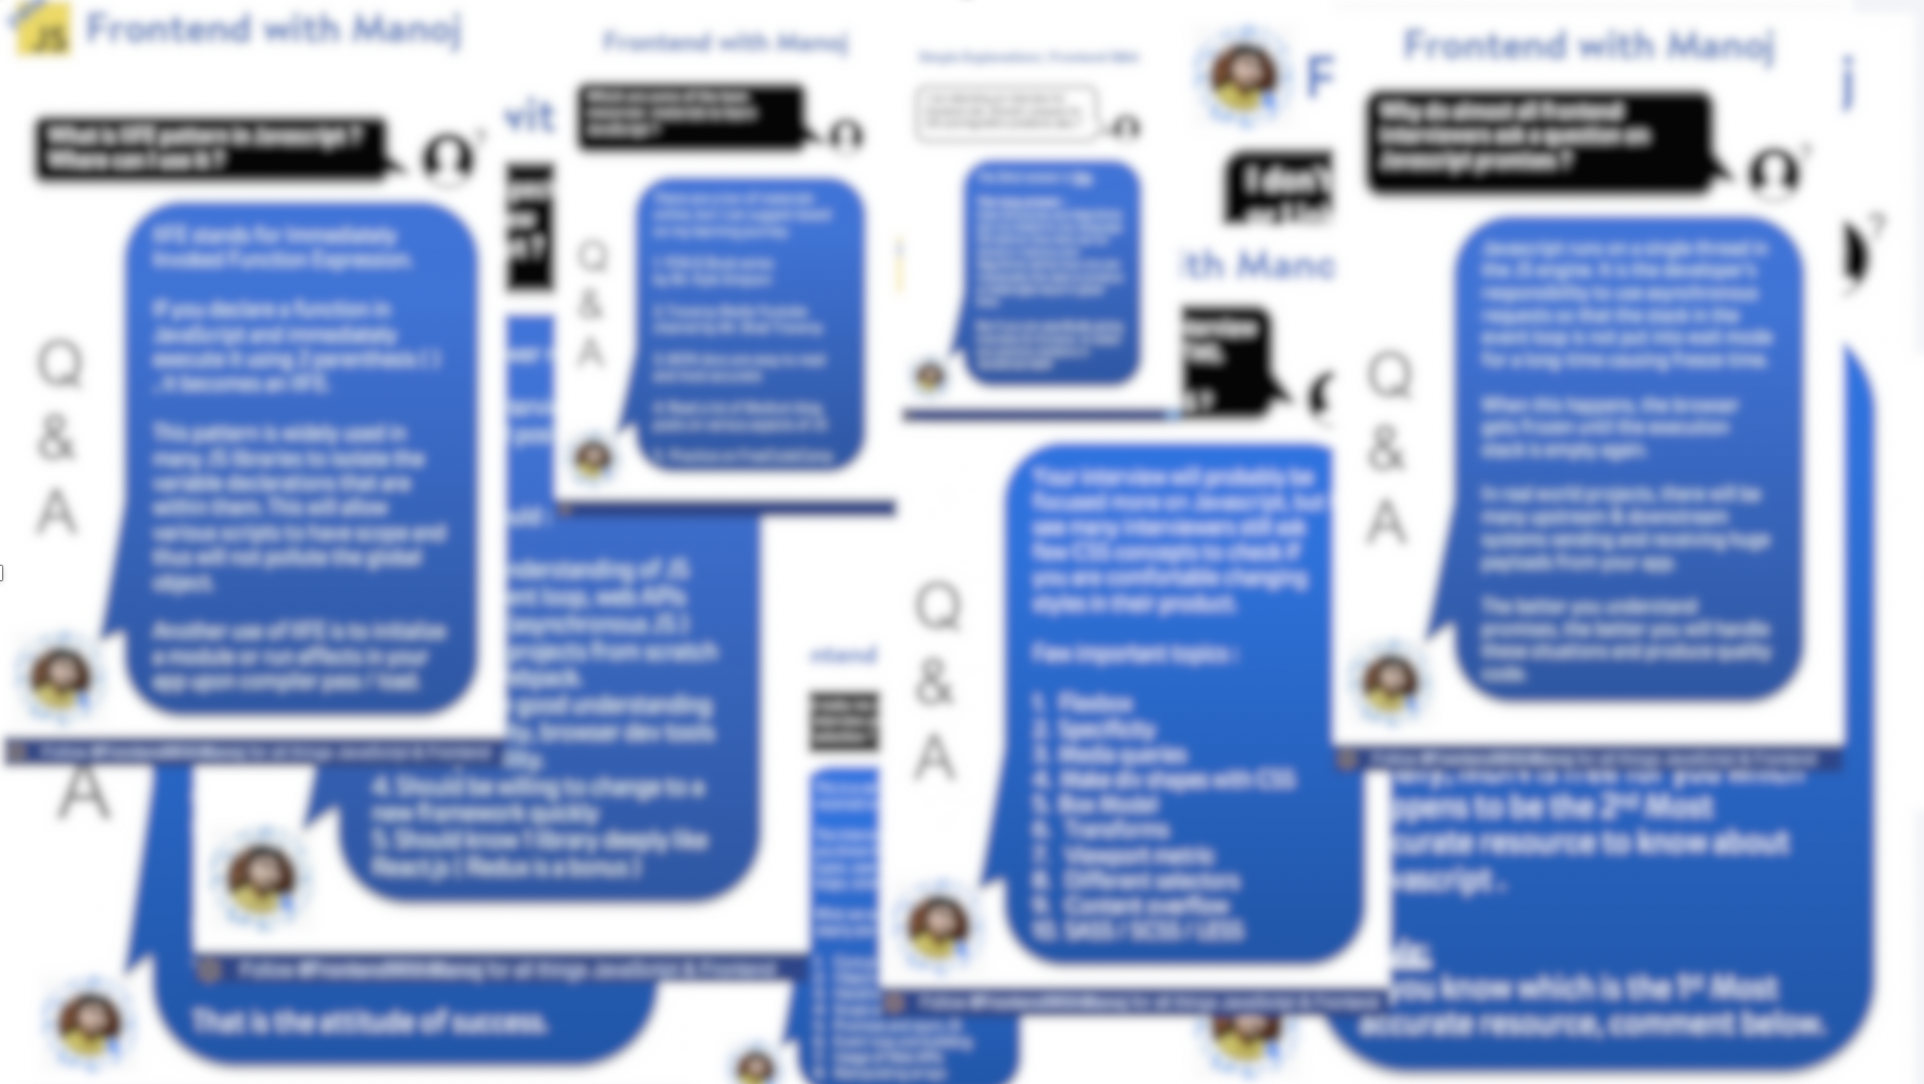
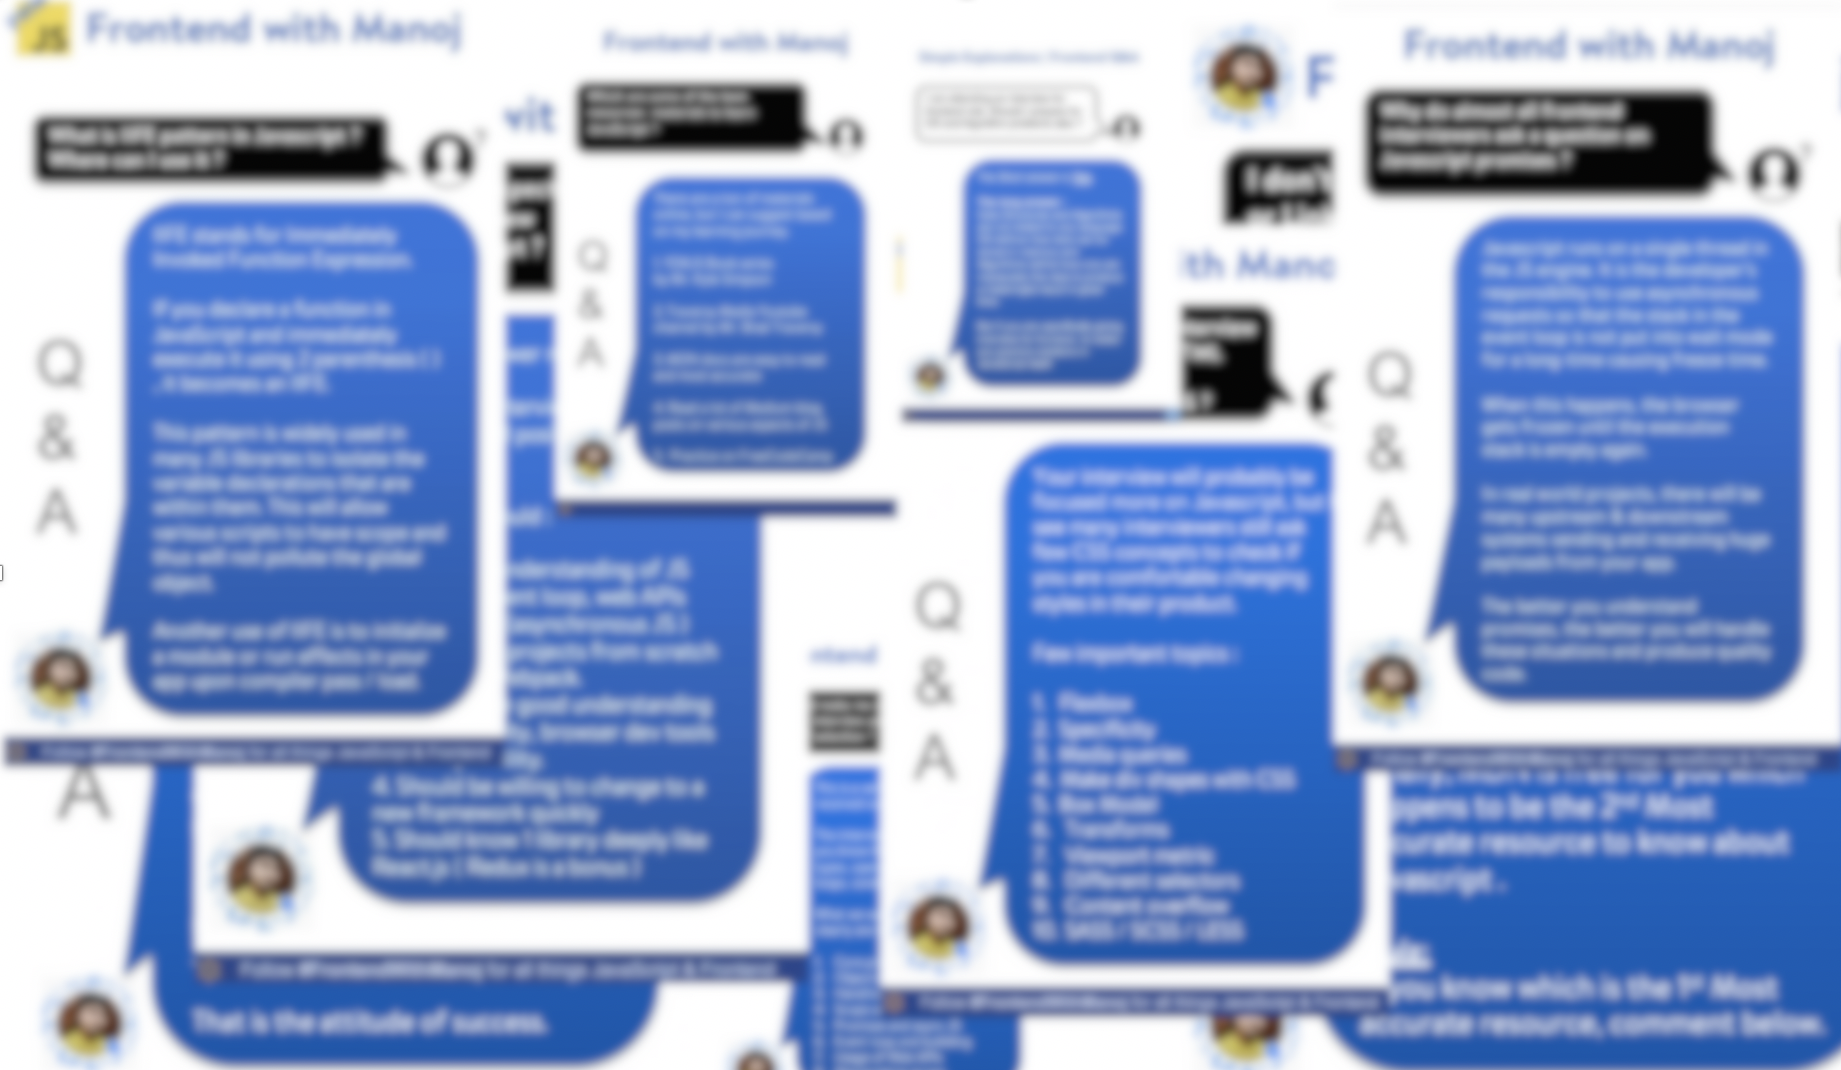
auto push commit

diff --git a/q-n-a/q-n-a-with-manoj.html b/q-n-a/q-n-a-with-manoj.html
@@ -35,6 +35,8 @@
 </head>
 
 <body>
+  <div id="qna-header" class="home">
+  </div>
   <div id="qna" class="text-left">
     <br />
     <br />
@@ -44,7 +46,7 @@
           <a href="../index.html">
             <img style=" width: 50px; height: 50px; margin-top:-10px; border-radius: 50%;" src="../images/favicon.png">
           </a>
-          Q & A with Manoj
+          Manoj Satish Kumar
         </h2>
         <a href="../index.html">
           <button

diff --git a/css/style.css b/css/style.css
@@ -256,7 +256,15 @@ nav ul li a {
 #podcast-header {
   background: url("../images/msk-tech-show-cover.png") repeat scroll center
     center / cover;
-  height: 65vh;
+  height: 40vh;
+  width: 100%;
+  background-position-x: right;
+}
+
+#qna-header {
+  background: url("../images/blur_screen.png") repeat scroll center center /
+    cover;
+  height: 40vh;
   width: 100%;
   background-position-x: right;
 }
